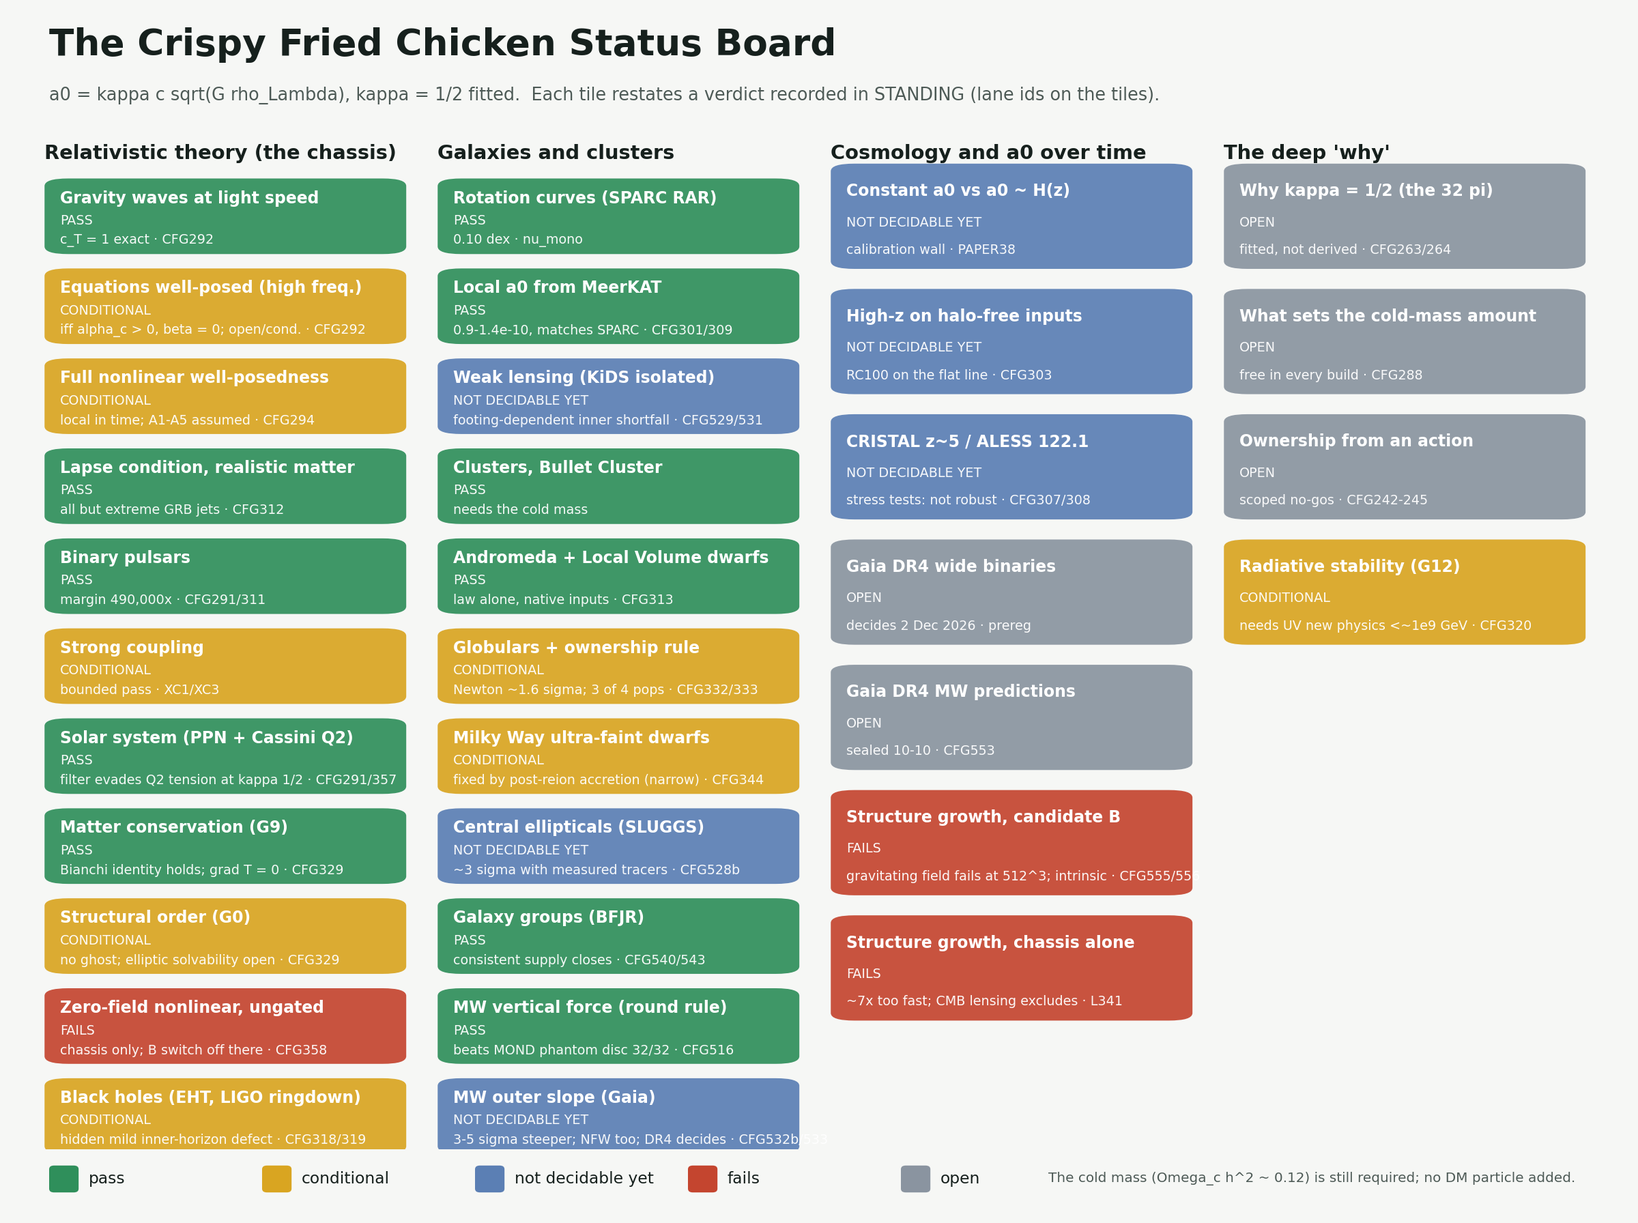
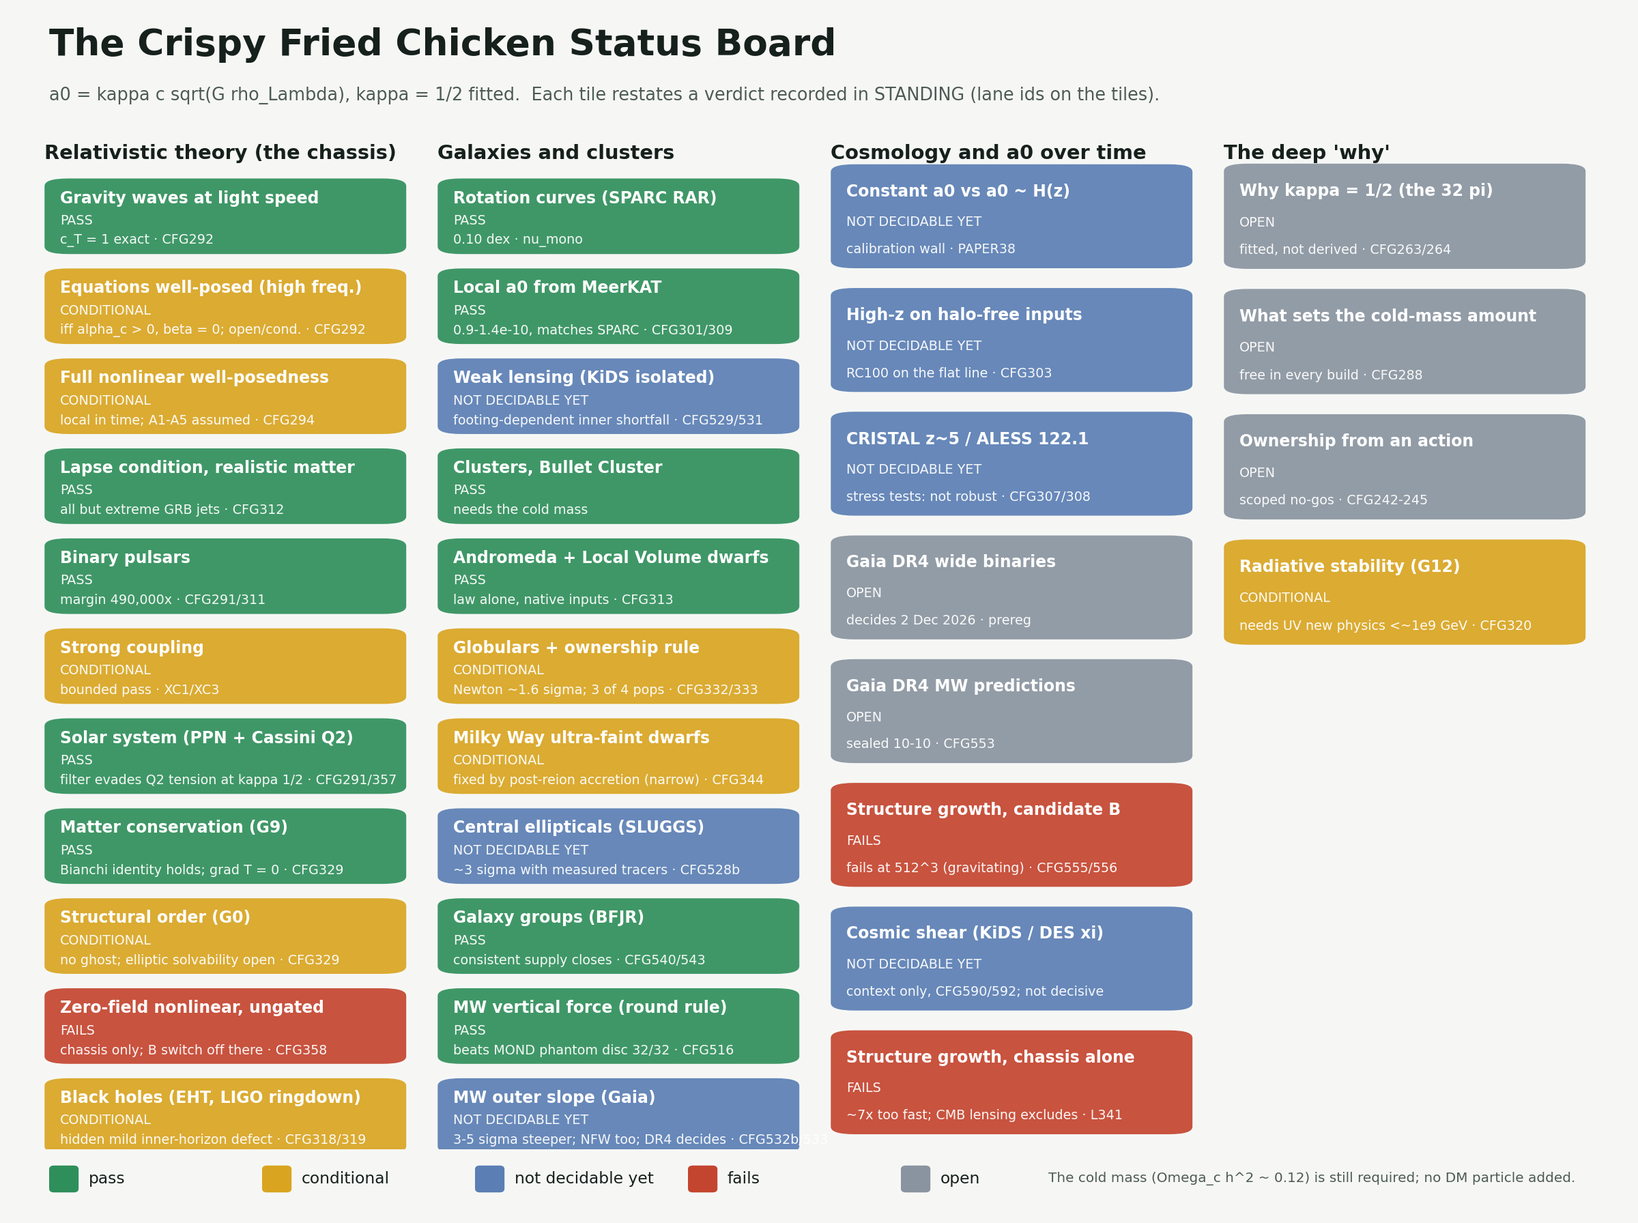
Foundation assumption register draft A01-A59 (from CFG594 audit); STANDING consolidated 10-09/10-10 entry; status board adds cosmic-shear tile (context only, CFG590/592). Docs only; charter still DRAFT. kappa fitted; cold energy mass required; not theory closed.

Changed region(s): [[0.5, 0.5, 0.75, 0.9375], [0.5, 0.25, 0.7188, 0.4688], [0.5625, 0.1562, 0.5938, 0.1875]]

diff --git a/campaign_fresh_gravity/closure_map/status_picture_2026_10_03.py b/campaign_fresh_gravity/closure_map/status_picture_2026_10_03.py
@@ -44,7 +44,8 @@ groups = [
         ("CRISTAL z~5 / ALESS 122.1", "UNDEC", "stress tests: not robust · CFG307/308"),
         ("Gaia DR4 wide binaries", "OPEN", "decides 2 Dec 2026 · prereg"),
         ("Gaia DR4 MW predictions", "OPEN", "sealed 10-10 · CFG553"),
-        ("Structure growth, candidate B", "FAIL", "gravitating field fails at 512^3; intrinsic · CFG555/556"),
+        ("Structure growth, candidate B", "FAIL", "fails at 512^3 (gravitating) · CFG555/556"),
+        ("Cosmic shear (KiDS / DES xi)", "UNDEC", "context only, CFG590/592; not decisive"),
         ("Structure growth, chassis alone", "FAIL", "~7x too fast; CMB lensing excludes · L341"),
     ]),
     ("The deep 'why'", [

diff --git a/foundation/ASSUMPTIONS.md b/foundation/ASSUMPTIONS.md
@@ -1,0 +1,131 @@
+# Assumption register (charter §3), DRAFT entries A01–A59
+
+Status: **DRAFT.** The charter (`PROGRAM.md`) is not approved ("not yet", owner 2026-10-10), and nothing here changes it. These entries fold in `campaign_fresh_gravity/CFG594_halo_assumption_audit/HALO_ASSUMPTIONS_AUDIT.md` (59 items, 2026-10-10). Documentation only: no result is re-derived and no number here is new. Quick-check numbers (QC) come from `cfg594_sensitivity_results.json`.
+
+Settings that apply to everything below: κ = ½ is FITTED. The footings (9.3603e-11 / 1.1312e-10) are never pooled. The cold energy's mass is still required. This is not "theory closed".
+
+**Rule (charter §3):** a verdict counts only if it survives the framework-native alternative, or if the dependence is stated on the board. **Owner rule 2026-10-10:** verdicts use RAW data against framework-native predictions only. ΛCDM and standard MOND are neither yardsticks.
+
+**Key to the entries.** Each entry gives: what it is and where it enters; the direction it could bias a test; the framework-native replacement. "E" is the halo-model excess max(R − 1) over 0.05 ≤ k ≤ 1 (CFG556 base +0.715 canonical / +0.883 alt); "CUT" means the 10% cut on both footings.
+
+Class counts: DATA-FORCED 10, FRAMEWORK-DERIVED 13 (2 posited), ΛCDM-INHERITED 17, STANDARD-MOND-INHERITED 7, CONVENTION 12.
+
+Source keys: PM = `CFG527_law_respecting_engine/cfg527_pm.py`; HM = `CFG556_halo_model_matter_power/cfg556_halo_model.py`; LIB557 = `CFG557_settling_catchment_derived/cfg557_lib.py`.
+
+## A. Data-forced (A01–A10): no replacement needed; the dependence is on the data
+
+| ID | audit | ingredient | where it enters | bias direction / note |
+|---|---|---|---|---|
+| A01 | D01 | low-acceleration law shape (SPARC RAR) | PM:107-119; HM:53-55 | fitted to SPARC; ν_simple and ν_standard fail SPARC |
+| A02 | D02 | a0 levels, two footings (κ = ½ FITTED) | PM:90; HM:47 | footing-conditional; never pooled |
+| A03 | D03 | cosmic cold amount ω_c = 0.120 (Ω_c/Ω_b = 5.364) | PM:85; HM:27; `cfg515_lib.py:17` | CMB-measured at z ≈ 1100 (CFG511) |
+| A04 | D04 | ω_b = 0.02237, cosmic f_b | PM:85-86; HM:28 | CMB/BBN |
+| A05 | D05 | cold energy has c_s² ≈ 0 and clusters below the horizon | one cold species, PM:248-263 | DESI fσ8, Ly-α (CFG508 T1 c_s² ≤ 7e-7) |
+| A06 | D06 | R6: round settled cold energy, not a phantom disc | HM frame_profile:111-180 | MW K_z 32/32 (CFG514/516). NOT obeyed by the PM (see A41) |
+| A07 | D07 | R7: no external-field effect | HM, CFG557/559 | cluster satellites (CFG478), Gaia DR3 (CFG447). NOT obeyed by the PM (see A41). R7 is what keeps halos concentrated (see A45) |
+| A08 | D08 | isothermal phantom tail out to ~Mpc | edge at 0.2–0.4 r_ta (CFG556) | KiDS lensing RAR = dynamical RAR |
+| A09 | D09 | extra gravitating matter in clusters and lenses beyond the law of baryons | A4 and G9 | cluster lensing / Bullet |
+| A10 | D10 | survey calibrations: ξ± data, covariance, n(z), m-bias, NLA IA | `cfg590_shear.py`, `cfg592_native.py` | measurement nuisances, not cosmology |
+
+## B. Framework-derived (A11–A23): replacement is the derivation itself
+
+| ID | audit | ingredient | lane | where |
+|---|---|---|---|---|
+| A11 | F01 | a0 = κc√(Gρ_DE); a0(z) tracks ρ_DE | PAPER42; CFG512 | PM:96-105 |
+| A12 | F02 | R1 phantom = settled cold energy, gravitating (G9) | THEORY_v1 R1 | PM:448, :491; HM:111-180 |
+| A13 | F03 | candidate-B switch λ₂ ≥ τ = (Δ_ta − 1)/3 = the turnaround ball for a spherical profile | CFG557 D1 | PM:374-378 |
+| A14 | F04 | R2 supply edge r_e = r_M/ln(1 + f f_b/(1 − f_b)), exact for the RAR kernel | CFG423 / T10 | PM:313-319; HM:136 |
+| A15 | F05 | R3 per-catchment mass conservation | CFG424 (MUTATE +15% clumping) | PM:448-491 |
+| A16 | F06 | R5 draw from the shell between the edge and r_ta | CFG527 | PM:458 |
+| A17 | F07 | R4 phantom sourced by retained baryons f_ret(x)(1 + δ) (the rule; the f_ret values are A29) | CFG518 | PM:410-416 |
+| A18 | F08 | R8 shared supply for overlapping catchments | CFG522 | LG timing |
+| A19 | F09 | gravitating-field statistic δ_grav = −k²φ/(1.5Ω_m) | CFG555 | `cfg555_compute.py:130-133` |
+| A20 | F10 | free-fall ceiling on the settled supply (α-free), a derived UPPER bound | CFG557 | LIB557:156-200 (dynamics under it are A33) |
+| A21 | F11 | cold-energy EoM class A (metriplectic), α FREE | CFG539/541/542 | not in the verdict engines |
+| A22 | F12 *posited* | FIX-2 kinetic closure (isotropic Jeans OU): POSITED, not derived | CFG544/554 | CFG559 toy |
+| A23 | F13 *posited* | A6 supply postulate: each system settles the cosmic share of its baryons. Six derivations failed | THEORY_v1 | HM:117; PM catchments |
+
+A11 and A13 contain fitted or inherited numbers (κ; Δ_ta), listed under their own classes.
+
+## C. ΛCDM-inherited (A24–A40)
+
+**A24 (L01) Linear initial spectrum.** Eisenstein–Hu no-wiggle, n_s 0.965, σ8 = 0.811, Zel'dovich at z_i = 49, D(a) from GR + Λ. *Where:* PM:85-87, 121-139, 248-263; HM:27-43; LIB557:28-41; `cfg592_native.py:31-43`. *Bias:* enters framework and S0 identically, so ratio verdicts are insensitive at first order; absolute shear (CFG590/592) is directly sensitive. *Native:* ω_c, ω_b are CMB-measured (A03/A04) and B equals ΛCDM linearly (CFG324/354); what is not native is σ8 = 0.811 and h, from a ΛCDM CMB fit. Fit A_s, h, Ω_m inside the framework (switch off at z > z_i) to CMB + BAO and regenerate ICs. Not run. *QC:* σ8 0.76 MINOR (ΔE +0.023 / +0.006).
+
+**A25 (L02) Background expansion.** Flat GR + Λ, w = −1, h = 0.6736, Ω_m = 0.315. *Where:* PM:85-94; HM:27-28; LIB557:65-77; CAMB in `cfg590_shear.py`, `cfg592_like.py:28-43`. *Bias:* small for growth ratios (a0 tracking vs flat: Δσ8 ≤ 0.0006, CFG508); larger for absolute ages (CFG557 ceiling). *Native:* PM with a DESI w0wa background and a0 tracking (only CFG591 addendum and CFG592 distances do this). Needs a PM rerun.
+
+**A26 (L03) Turnaround density Δ_ta = 11.81.** Spherical top-hat shell ODE in the ΛCDM background. *Where:* PM:142-171, :310-311, :327, :341, :374-378; HM:50. *Bias:* a lower Δ_ta means a larger catchment, so more supply and more excess. *Native:* under B the law is off before turnaround, so this ODE IS the framework's own spherical collapse given A25. The residual native correction is a secondary-infall model with settled interior cold energy and the w0wa background. *QC:* × 0.8 / × 1.2 MODERATE (ΔE +0.106 / −0.085 canonical).
+
+**A27 (L04) Cold energy = collisionless CDM outside bound systems.** One PM species carries all of Ω_m; the settled part is bookkeeping. *Where:* PM:248-263, :435; THEORY_v1 A5. *Bias:* sign-setting through the supply amount (A28), but the bookkeeping is not the driver (CFG539's moving species gives the same excess: 0.347 vs 0.336 canonical). *Native:* a two-species PM whose cold species obeys the framework's own settling dynamics, with the settled amount measured. CFG539 tried; class A has α free and fails. Open.
+
+**A28 (L05) Supply amount = (1 − f_b)M_ta, the whole turnaround ball.** *Where:* HM:117; `cfg515_lib.py:9-10`; PM:383, :391. *Bias:* the largest. Turnaround ball E +0.715 / +0.883; r200m ball −0.000 / −0.081 (CFG556); α-free ceiling +0.382 / +0.458 (CFG557). *Native:* (i) measure the cold mass that actually enters each host's edge in the PM (done in CFG595: supply 1.5–3.6× larger than assumed, excess persists at about half size); (ii) the A27 two-species run. *QC:* × 0.5 / × 0.75 DRIVER / MODERATE; × 0.5 does not reach CUT.
+
+**A29 (L06) Census f_ret(M_ta).** Numerator observed baryons; denominator uses a ΛCDM halo mass. 0.10 below 10^12.5, 0.55 at 10^13.5, capped 0.90. *Where:* PM:302-308; HM:87-92; `cfg515_lib.py:20-40`. *Bias:* large and sign-relevant; for a galaxy the supply is 54 M_b (the ΛCDM abundance-matched halo). *Native:* each system's catchment mass from its own data (Hubble-flow zero-velocity surface, as CFG548 for the LG; weak-lensing profile beyond r_e), then f_ret = observed baryons / (f_b × that mass). Lane CFG600. *QC:* × 0.5 canonical E = +0.063 (CUT), alt +0.188; × 2: +0.165 / +0.163. DRIVER.
+
+**A30 (L07) Moster13 / Behroozi SHMR.** *Where:* HM:93-96 (star/gas split only); KiDS harness `CFG529…/cfg529_tables.py:47, 61` (sets lens M_ta). *Bias:* halo model none (|ΔE| ≤ 0.001); KiDS sets the per-lens supply, same direction as A29. *Native:* as A29. KiDS-side sensitivity: lane CFG601.
+
+**A31 (L08) NFW + Duffy08 c(M).** The ΛCDM reference profile in R = P_F/P_L; the shape defining r_ta, M_ta; the shell outside r_e. *Where:* HM:76-84, 159-180; CFG557/559; `cfg591_lib.py:79-99`; `cfg593_lib.py:81`. *Bias:* mostly yardstick; a lower ΛCDM concentration gives larger R. *Native:* drop the halo-model reference; compare the framework's own P(k) or ξ± with raw data (CFG592 native); take r_ta and shell shape from PM infall profiles. *QC:* c × 0.7 / × 1.3 DRIVER / MODERATE (ΔE +0.281 / −0.153 canonical). The size of the "excess" is not robust to this choice; neither direction removes it.
+
+**A32 (L09) Tinker08 mass function + Tinker10 bias.** *Where:* HM:57-73. *Bias:* small. *Native:* the PM's own n(M_ta) from turnaround balls. *QC:* Press–Schechter MINOR (+0.036 / +0.008).
+
+**A33 (L10) EPS main-progenitor histories + ΛCDM shell trajectories.** Neistein+06, q = 2.2, recalled, PROVISIONAL. *Where:* LIB557:8-9, 78-100, 140-152. *Bias:* sets the settled fraction, roughly half the excess (CFG557 0.50–0.80; CFG559; CFG590/591). *Native:* accretion histories of the PM's own turnaround balls across snapshots. No QC (needs halo matching).
+
+**A34 (L11) S0 (ΛCDM DM-only PM) as the YARDSTICK.** The CFG361 cut |P/P_S0 − 1| ≤ 0.10 (k ≤ 1) and σ8 within 5%. *Where:* `CFG530…/cfg530_analysis.py:197`; cfg424/518/527 analyses; CFG556 growth; CFG557/559. *Bias:* two-sided. Every GROWTH OK / TENSION label rests on it. Against raw shear ΛCDM-DMO is itself above the data (A = 1 vs 0.86). *Native:* S0 stays as the same-pipeline comparison only; the verdict is framework vs raw ξ± or fσ8 (CFG592 native: 27 of 29 runs NOT DIAGNOSTIC at k ≤ k_Nyq/4; the two L100 N512 runs give Δχ² +24 / +30 KiDS, +4 / +6 DES). A decisive version needs a higher-resolution or zoom PM reaching k ≈ 5–10 h/Mpc.
+
+**A35 (L12) HMcode-2020 DMO P_NL × BAHAMAS feedback S_fb.** *Where:* `cfg590_shear.py:61-62`; `cfg592_like.py:42, 59-67`; `cfg592_de.py:50`; `cfg591_shear.py:33`. *Bias:* multiplies the framework's R onto a ΛCDM non-linear spectrum with ΛCDM-calibrated feedback. CFG590 is CONTEXT ONLY. *Native:* CFG592 native, plus a framework baryon/feedback model (none exists).
+
+**A36 (L13) A_mod form P = P_L + A(P_NL − P_L).** *Where:* CFG590. *Bias:* amplifies R − 1, since A − 1 ≈ (R − 1)P_NL/(P_NL − P_L). *Native:* direct ξ± likelihood (CFG592 native).
+
+**A37 (L14) KiDS lensing harness.** DK14 transition, halofit × ζ two-halo, stripping. *Where:* `CFG529…/cfg529_score.py:3, 470-471`. *Bias:* unknown sign; the 2-halo term is NOT CROSS-CHECKED BY PM. *Native:* the PM's own galaxy–matter cross-spectrum for the 2-halo term, or restrict to 1-halo radii.
+
+**A38 (L15) Epoch evolution of ΛCDM fits.** Duffy (1+z)^−1.01, Tinker and Moster z-evolution. *Where:* `cfg591_lib.py:4-5, 66-99`. *Bias:* as A31/A32 per epoch. *Native:* PM snapshots at z = 1 and 0.5.
+
+**A39 (L16) Planck-like CAMB distances and growth in the shear projection.** *Where:* `cfg592_like.py:28-43`; `cfg592_native.py:52-71`. *Bias:* small (DESI variant moves KiDS Δχ² +23.9 → +18.1). *Native:* framework background (A25).
+
+**A40 (L17) r_ta and "cold infall from r_ta" in the kinetic toy.** From the NFW-extended halo. *Where:* `CFG559…/cfg559_toy.py:55-61`. *Bias:* as A31 and A26. *Native:* PM infall profiles.
+
+## D. Standard-MOND-inherited (A41–A47)
+
+**A41 (M01) QUMOND phantom on the global peculiar baryon field.** ρ_ph = −∇·[(ν − 1)g_b]/4πG; non-round, and |g_b| contains neighbours' fields (an implicit EFE). *Where:* PM:421-434; named open in `CFG541…/EQUATIONS.md:91, 227`. *Bias:* the EFE part lowers ν, so the excess is understated; the negative-phantom lobes clipped at PM:448 bias it up; they partly cancel. *Native:* round per-region phantom from the enclosed retained baryons of each B region (EQUATIONS E7). *Check on disk:* core mass ratio R = M_grav(PM)/M_law(round) is 0.94–0.98 (256³) and 1.04–1.14 (N512), so the departure from R6/R7 is bounded to about 15% in halo mass; not the driver.
+
+**A42 (M02) Kernel reads the local |g_b| alone, in comoving peculiar fields.** *Where:* PM:424. *Bias:* unknown; limited by the switch. *Native:* as A41.
+
+**A43 (M03) Kernel low-y form is an empirical fit (McGaugh+16 RAR) extrapolated to groups, clusters and Mpc edges.** ν_mono's monotone high-y tail is the framework's own. *Where:* PM:107-119; HM:53-55. *Bias:* moderate. *Native:* data-forced for discs (A01); for groups and clusters the group baryonic Faber–Jackson (Tian+26) and lensing-RAR data decide. *QC:* ν_simple MINOR (+0.002); ν_standard MODERATE (−0.138 / −0.136); both SPARC-disfavoured.
+
+**A44 (M04) Deep-MOND asymptotics as derivation shortcuts.** Edge r_e ≈ r_M(1 − f_b)/(f f_b); V_f = (G M_b a0)^¼ in the kinetic toy; σ⁴ = G M_b a0/4 (CFG539 class B); T = V_f²/2 (CFG550). *Where:* edge in every lane; CFG544/550/554/559. *Bias:* small (point mass vs extended baryons). *Native:* numerical supply exhaustion on the real enclosed baryon profile (the point-mass closed form is exact for the RAR kernel, QC M0). No σ⁴ = (4/81)G M a0 shortcut appears in the audited lanes.
+
+**A45 (M05) The EFE question.** Framework: none (A07). Standard MOND: yes. *Where:* HM and CFG557/559 have none; the PM has a partial EFE through A41. *Bias:* **decisive in the halo model.** With a standard-MOND EFE the phantom saturates at (ν(y_ext) − 1)M_b, far below the 54 M_b galaxy supply; the edge never forms and the halo is not concentrated. *Native:* not a replacement. R7 is data-chosen, so the framework's halo excess depends on it rejecting EFE. Keep R7 under test (Gaia DR4 wide binaries, PAPER35; cluster satellites). *QC:* y_ext 0.01 MODERATE (−0.105 / −0.103); y_ext 0.03 DRIVER and CUT (E −0.002 / −0.002).
+
+**A46 (M06) r_M, the "MOND radius".** Where a0 enters the supply edge (PM:313-319). As A44.
+
+**A47 (M07) "Standard MOND predicts X" yardsticks.** None is used as a verdict yardstick in the audited lanes (grep of the READMEs). The only "phantom = extra gravity" construction is the MUTATE no-compensation control, used as a tooth.
+
+## E. Convention / numerical (A48–A59)
+
+| ID | audit | item | where | note |
+|---|---|---|---|---|
+| A48 | C01 | box L (200, 100, 50, 25), mesh 256/512, NSEED, seed 359 | PM:92 | CFG530: P(k) converges at fixed box; core R does not (canonical) |
+| A49 | C02 | resolved-host cut RMIN = 1.56 Mpc/h | PM:80, :344 | PM hosts are groups and clusters only; the f_ret ≈ 0.10 galaxy regime is untested in the PM |
+| A50 | C03 | switch width ε = 0.077; peak threshold 3(τ − ε) | PM:93, :327, :378 | CFG427: ε insensitive |
+| A51 | C04 | MIX-A gas pressure filter | PM:81, :398-409 | replaced by NOFILT in CFG527/530 |
+| A52 | C05 | cover recomputed every 10 force calls | PM:380-384 | — |
+| A53 | C06 | 150 KDK steps | PM:265-271 | — |
+| A54 | C07 | CIC / mesh softening; P(k) cut k ≤ 1 | PM:541 | — |
+| A55 | C08 | halo-model grids (mass 1e8–1e16, NR 1600, k 1e-3–10) | HM:57, 106-109, 194 | control C4 1e-3 |
+| A56 | C09 | cap e/q when q > 1 | PM:461-466 | never acted |
+| A57 | C10 | sharp vs softened edges (s25 / s55) | HM:140-176 | declared variants |
+| A58 | C11 | declared baryon shapes: Hernquist stars, β-model gas | HM:97-106 | emergent-edge variant very sensitive to outer gas (CFG556) |
+| A59 | C12 | CFG592 native support cut k ≤ k_Nyq/4 | `cfg592_native.py:250-304` | makes most runs NOT DIAGNOSTIC |
+
+## F. Ranking from the audit (what to replace first)
+
+1. A27 + A28 (catchment supply sized by ΛCDM-like clustering): measure the settled amount (CFG595 did the first half).
+2. A29 + A30 (census f_ret and SHMR masses): catchment mass from each system's own data (lane CFG600; sensitivity CFG601).
+3. A34 + A35 + A36 (S0 yardstick, HMcode/BAHAMAS, A_mod): CFG592 native at a resolution that keeps most ξ± points.
+4. A31 (NFW/Duffy reference): retire the halo model from verdicts (done by the owner rule).
+5. A41 + A45 (QUMOND phantom, EFE): round per-region phantom in the PM; R7 against DR4.
+
+## G. What this register does NOT say
+
+- It does not say the excess is an artefact. The most native PM evidence (CFG555 gravitating field at 512³; CFG530 core R about 1) shows the framework's halos are more concentrated than ΛCDM's at the same initial field.
+- It does not say the data favour the framework.
+- The supply (A23) and the switch remain inputs.

diff --git a/campaign_fresh_gravity/STANDING_2026-09-29.md b/campaign_fresh_gravity/STANDING_2026-09-29.md
@@ -1074,3 +1074,14 @@
   - **Terminology from 10-08:** "cold energy" (was "cold fluid") alongside "dark energy".
 
 - **2026-10-10: PAPER45 v2.2 published** (growth correction: the particle field passes; the gravitating field fails at 512³; nu_mono wording): DOI 10.5281/zenodo.23240863 (concept 23219294; v2.1 was 23240853).
+
+- **2026-10-09/10 consolidated entry (CFG530–CFG597; from ASSESSMENT_2026-10-09.md; orchestrator handoff, task-runner session).** κ = ½ is fitted; the two footings (9.36e-11 / 1.13e-10) are never pooled; the cold energy's mass is still required; this is not "theory closed". Owner rule 2026-10-10: verdicts use RAW data against framework-native predictions only. ΛCDM mass functions, HMcode/BAHAMAS and standard MOND are context, not yardsticks.
+  - **Growth (red).** PAPER45 v2.2 (DOI 10.5281/zenodo.23240863) corrects the earlier claim. The zero-knob rule passes on the particle density, but on the gravitating density (what lensing and σ8 measure) it passes only at 256³ and fails at 512³ (0.150–0.193; σ8 +3–5%). CFG556: the excess is intrinsic to the settling rules (the supply amount is the lever). CFG557/559: the exact catchment is not derivable and kinetic support does not fix it. CFG595: using the measured cold supply cuts the excess about in half but does not remove it.
+  - **Cosmic shear (context only, CFG590/592).** CFG590 rests on ΛCDM-calibrated machinery and is downgraded to context. CFG592's framework-native test (our PM gravitating P vs our own S0, real KiDS-1000 + DES Y3 ξ±) is NOT DIAGNOSTIC under its frozen rules; it leans against (Δχ² +24 / +30 on KiDS, +4 / +6 on DES, from the two 512³ runs that keep data). Deciding it needs L ≥ 400 Mpc/h at N ≥ 1024, beyond this machine.
+  - **KiDS lensing (undecided).** CFG529: in a validated isolated-lens environment the census edge fails both footings, with the excess in the inner bins where every law-type profile falls short. CFG531: the inner shortfall is footing-dependent (alt footing explained by a +0.10 dex stellar-mass shift). CFG534/536: a history-dependent settling split in early types is consistent but not confirmed (Z 2.84, bar 3).
+  - **Passes that stand.** Rotation curves, MW vertical force (round rule, 32/32), clusters, early-type lensing levels, MW satellites, groups (consistent supply closes the baryonic Faber–Jackson gap, CFG543).
+  - **Open or tension.** Local Group timing (data-issue, fragile); SLUGGS centrals (genuine tension, +0.07 dex); MW outer slope (shape excluded as frozen, rests on the distance scale; DR4 decides); small-scale power (engine artefact, partly fixed, not converged at high resolution).
+  - **Halo assumptions (CFG594).** Of 59 ingredients: 10 data-forced, 13 framework-derived (2 posited), 17 ΛCDM-inherited, 7 standard-MOND-inherited, 12 conventions. The halo shape is the framework's own; the halo supply, the catchment and the S0 yardstick are inherited. Draft register: foundation/ASSUMPTIONS.md (A01–A59; charter still a DRAFT).
+  - **Required halo profile (CFG593, context).** No profile in a 3-parameter family fits both shear and KiDS; post hoc, partial settling (30–80% of the phantom, reaching about 0.5 r_ta) opens an overlap. A clue, not a result.
+  - **Running, not yet in the record:** CFG591 (redshift R(k, z)), CFG596 (lean 1024³ PM), CFG597 (merger stopwatch). CFG589 (late-type colour clock) criteria are frozen.
+  - **Decisive data to come:** Gaia DR4 (2 Dec 2026), a₀ at z ≈ 2.5, edge-on σ_z and HI flaring, and a PM at L ≥ 400 Mpc/h with N ≥ 1024.
